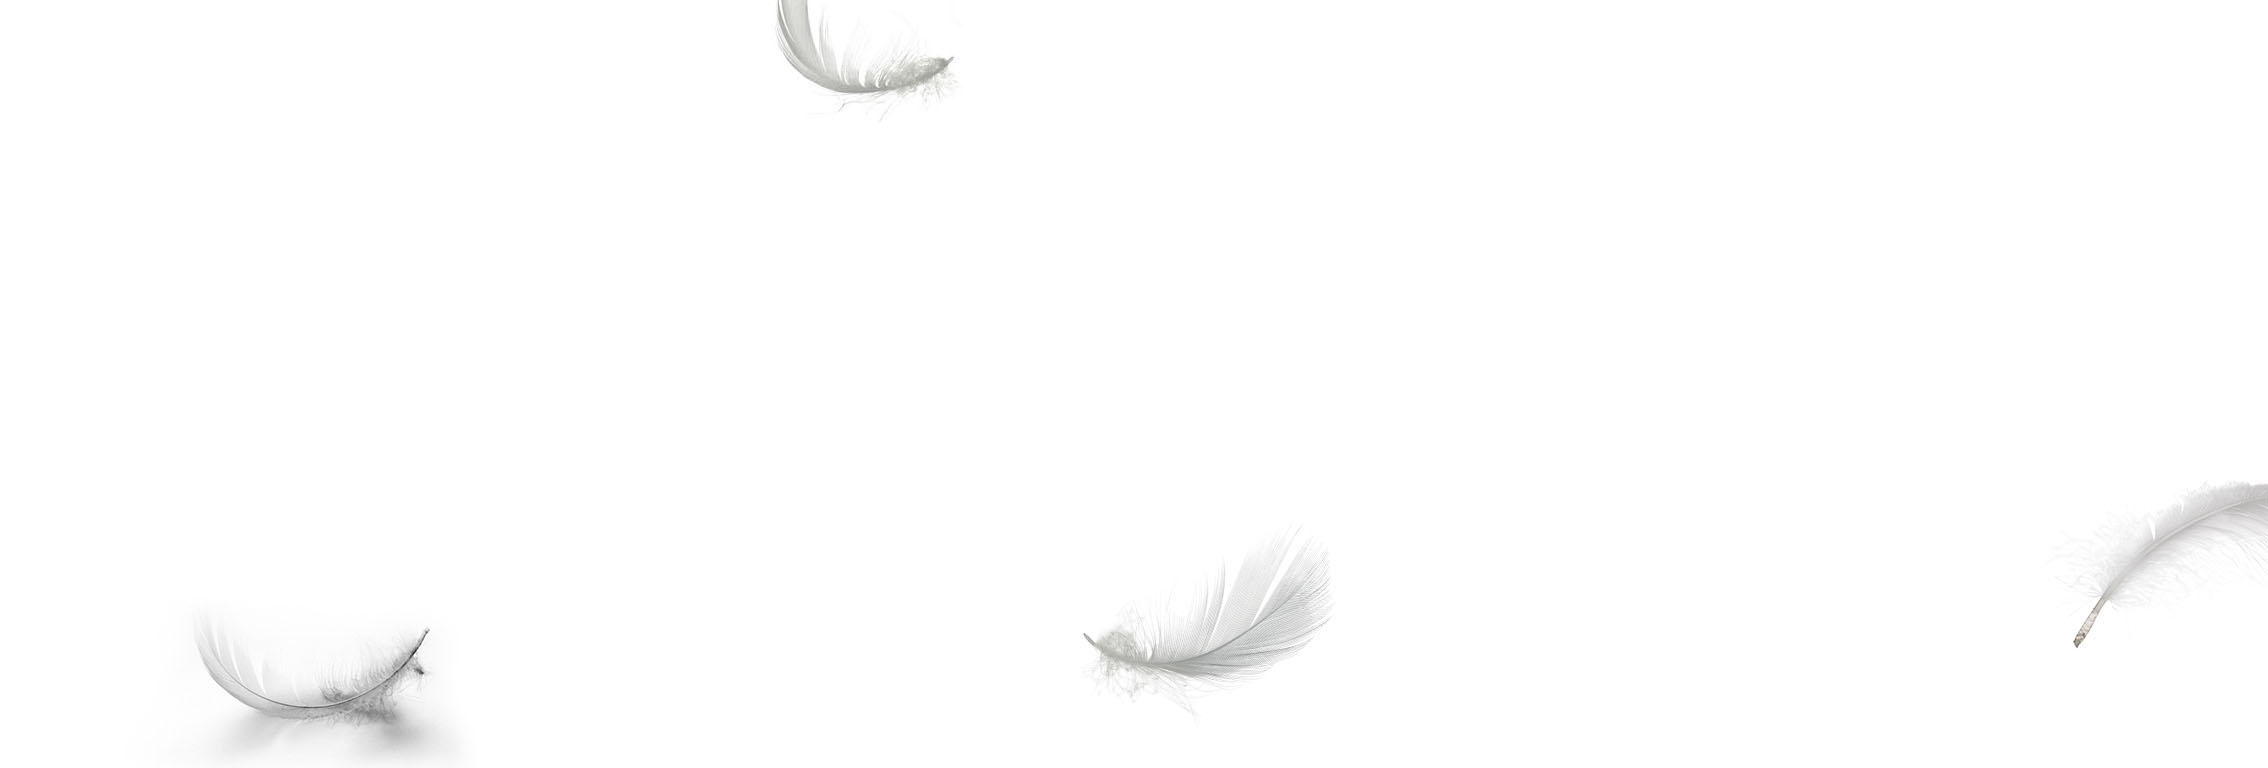
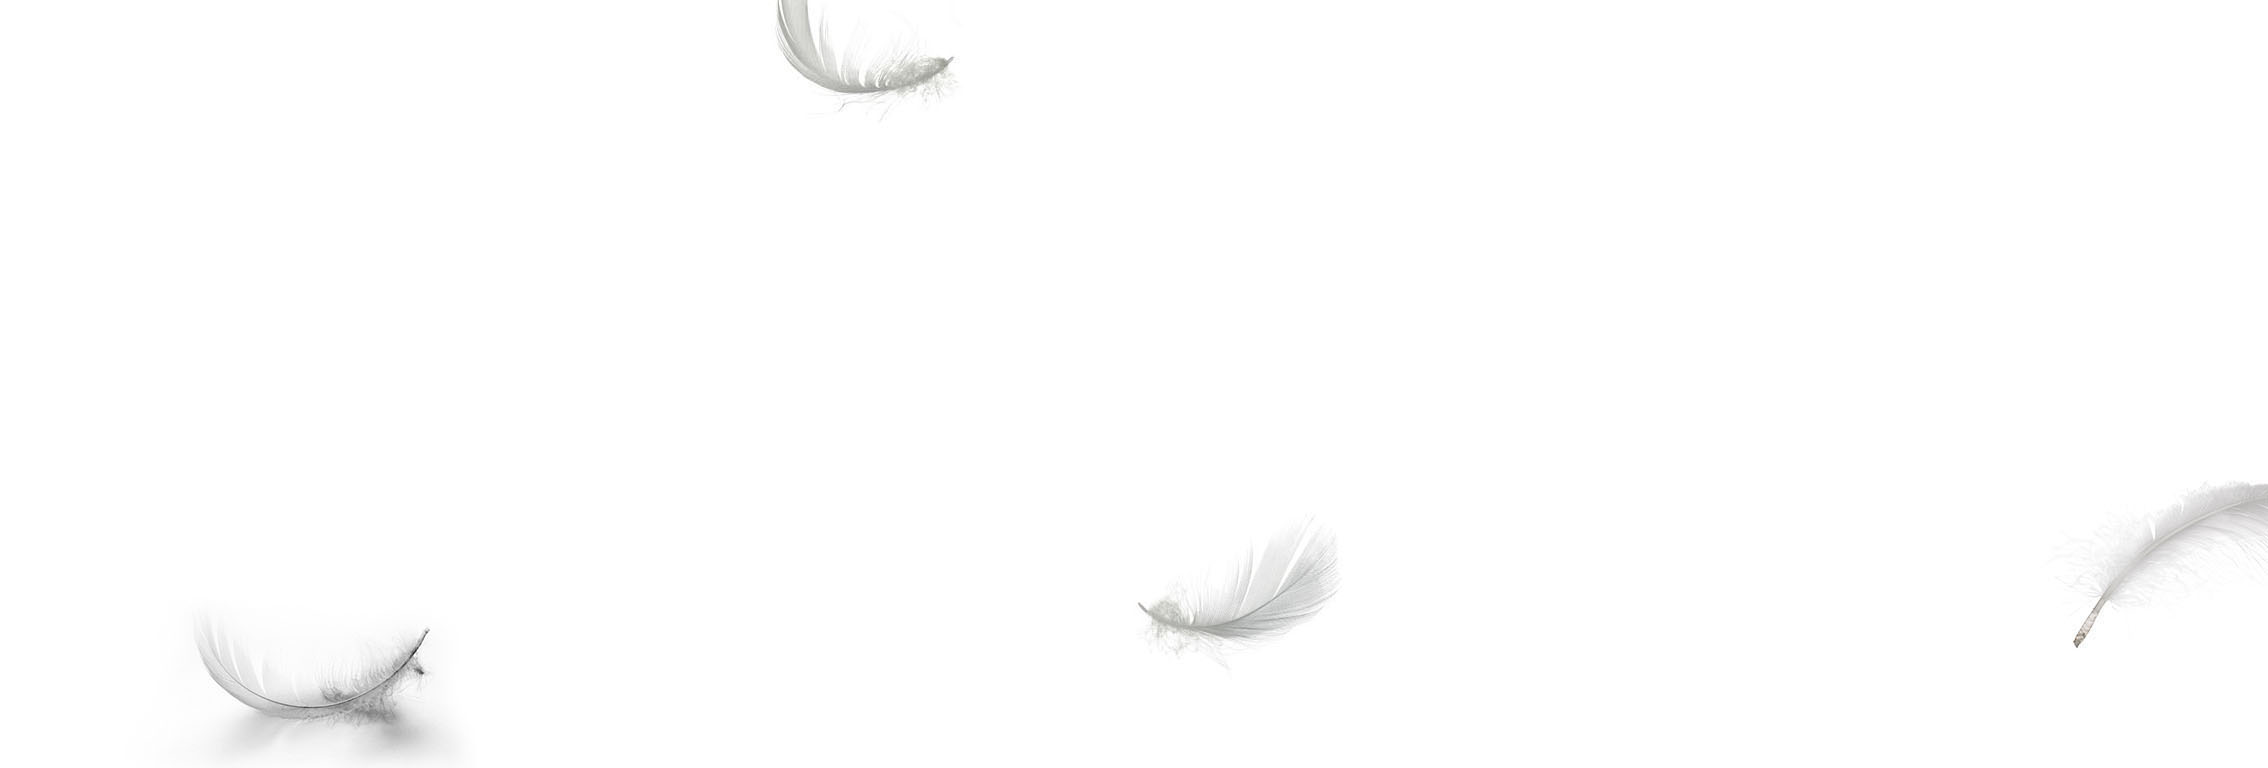
cosmetic tweaks to background img; added footer

Changed region(s): [[0.463, 0.7188, 0.5864, 0.9062]]

diff --git a/index.html b/index.html
@@ -19,28 +19,24 @@
           <ul>
             <li><a href="#about">This is me...</a></li>
             <li><a href="#skills">Here's what I know...</a></li>
-            <li><a href="#DocumentDesign">Document Design</a></li>
+            <li><a href="#DocumentDesign">It's all about beautiful docs</a></li>
             <li><a href="#WebDesign">Web Design</a></li>
-            <li><a href="#Contact">More Portfolio</a></li>
+            <li><a href="#MorePortfolio">More Portfolio</a></li>
+            <li><a href="#Contact">Find me at...</a></li>
          </ul>
         </nav>
       </div>
 
-      <div id="social-media-fb">
-        
-      </div>
-
      <div id="parent-container" class="#grid-horz-scroll">
 
-
       <div class="grid-container">
+
       	 <div class="col-1-item" id="about">
           <h3>This is me...</h3>
-          <p>I am a graphic-designer-turned-web-designer, providing services in front-end web development as well as graphic design for flyers, posters, social media, and print and (interactive) electronic document design.</p>
+          <p>I am a graphic-designer-slash-web-designer, providing services in front-end web development as well as graphic design for flyers, posters, social media, and print and (interactive) electronic document design.</p>
         </div>
       
         <div class="col-2-item">
-          
         </div>
 
         <div class="col-3-item" id="skills">
@@ -49,7 +45,6 @@
         </div>
 
         <div class="col-4-item">
-          
         </div>
 
         <div class="col-5-item" id="DocumentDesign">
@@ -57,22 +52,27 @@
           <p>As a marketer for architecture and engineering firms, I have been designing documents —both print and electronic—for almost 20 years. As a freelancer, I have designed flyers, social media posts, posters, and now...web sites, which I find to be both the most challenging and the most fun!</p>
         </div>
 
-        <div class="col-6-item">
-          
+        <div class="col-6-item">  
         </div>
 
         <div class="col-7-item">
           <h3>Webbin' it...</h3>
-          <p>Designing for the web is fun and challenging: it takes my love of graphic design, throws in some spice with those added dimensions of interactivity, animation,  and connectivity; then  wraps it all in the challenge of using acquired  and yet-to-be-learned coding skills to make it all work as planned! </p>
+          <p>Designing for the web is fun and challenging: it takes my love of graphic design, throws in some spice with those added dimensions of interactivity, animation, and connectivity; then  wraps it all in the challenge of using acquired and yet-to-be-learned coding skills to make it all work as planned! </p>
         </div>
 
         <div class="col-8-item" id="WebDesign">
-          
-        </div>    
-
+        </div>
+      </div>
     </div>
+  
+    </body>
 
-    
-</body>
+    <footer>
+      <div class="footer-grid-container">
+        <img src="img/social-sprite.png" alt="social media icons">
+      </div>
+    </footer>
+
+
 
 </html>

diff --git a/css/main.css b/css/main.css
@@ -1,5 +1,8 @@
 /***** BASE STYLES *****/
-
+body {
+  display: block;
+  position: relative;
+}
 
 html { 
   background: url("../img/LandingPage2.jpg") no-repeat center center fixed; 
@@ -11,8 +14,8 @@ html {
 
 p {
 	font-family: "Josefin Slab", serif;
-	font-size: 16px;
-  line-height: 133%;
+	font-size: 18px;
+  line-height: 140%;
 }
 
 h1 {
@@ -29,15 +32,16 @@ h3 {
   margin: 0;
 }
 
-body img {
+#logo {
+  display: inline-block;
+  width: 200px;
+  overflow: hidden;
+}
+
+#logo img {
   position: fixed;
   left: -30px;
   top: 0px;
-}
-
-#logo {
-  width: 200px;
-  overflow: hidden;
 }
 
 /***  NAV ***/
@@ -68,6 +72,10 @@ nav li a:hover {
   text-decoration: underline;
 }
 
+nav li a:visited {
+  color: #0076a3;
+}
+
 ::-webkit-scrollbar {
        height: 6px;
 
@@ -90,8 +98,8 @@ nav li a:hover {
 }
 
 /*#style-1::-webkit-scrollbar-thumb {
-    background-color: #065751;*/
-}
+    background-color: #065751;
+}*/
 
 /***** HORIZONAL SCROLL AREA *****/
 
@@ -117,12 +125,12 @@ nav li a:hover {
   background-color: #ffffff;
   display: inline-grid;
   grid-column-gap: 16px;
-  grid-template-columns: [col1] 196px [col2] 290px [col3] 196px [col4] 280px [col5] 196px [col6] 611px [col7] 186px [col8] 458px [col9] 186px;
+  grid-template-columns: [col1] 196px [col2] 290px [col3] 256px [col4] 280px [col5] 236px [col6] 611px [col7] 246px [col8] 458px [col9] 186px;
   grid-template-rows: auto;
   margin-top: 156px;
      ::-webkit-scrollbar-thumb {
-     background-color: #0076a3;
-    }
+      background-color: #0076a3;
+     }
 }
  
 /***  GRID ITEMS ***/
@@ -147,7 +155,6 @@ nav li a:hover {
   background-image: url('../img/AboutPortrait-sprite.jpg');
   background-repeat: no-repeat;
   overflow: hidden;
-  
 }
 
 .col-2-item:hover {
@@ -268,7 +275,7 @@ nav li a:hover {
   background-repeat: no-repeat;
   background-position: left top;
   overflow: hidden;
-  width: 290px;
+  height: 306px;
 }
 
 .col-8-item {
@@ -317,5 +324,22 @@ nav li a:hover {
   background-color: #0076a3;
 }
 
+/***** FOOTER STYLES *****/
+footer {
+  display: block;
+  height: 350px;
+  position: fixed;
+  left: 0px;
+  bottom: 0px
+  width: 100%;
+}
+
+.footer-grid-container {
+  background-color: #ffffff;
+  display: inline-grid;
+  grid-column-gap: 6px;
+  grid-template-columns: [col1] 29 [col2] 29px [col3] 229px;
+  grid-template-rows: auto;
+  margin-top: 156px;
 
 
